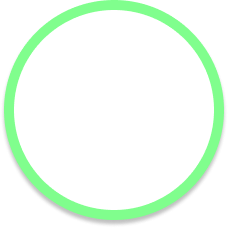
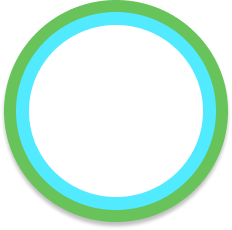
Fixed the player turn signal

diff --git a/Agilt_Projekt_2_Mia_Mia_Med_Putt/Pages/GameBoard.xaml b/Agilt_Projekt_2_Mia_Mia_Med_Putt/Pages/GameBoard.xaml
@@ -48,7 +48,10 @@
             </Image>
             
             <Canvas x:Name="GridCanvas" Width="670" Height="670" Margin="8,5,0,0" HorizontalAlignment="Center" VerticalAlignment="Center">
-
+                <Image Source="/Assets/Board/GreenEllipse.png" Canvas.Left="5" Canvas.Top="428"/>
+                <Image Source="/Assets/Board/RedEllipse.png" Canvas.Left="5" Canvas.Top="8"/>
+                <Image Source="/Assets/Board/YellowEllipse.png" Canvas.Left="428" Canvas.Top="428"/>
+                <Image Source="/Assets/Board/BlueEllipse.png" Canvas.Left="428" Canvas.Top="8"/>
             </Canvas>
 
             <Image x:Name="DicePic" HorizontalAlignment="Center" VerticalAlignment="Center" Width="100" Height="100" Margin="900,350,0,0" RenderTransformOrigin="0.5,0.5" class:ButtonExtensions.ChangeCursorOnHover="True">

diff --git a/Agilt_Projekt_2_Mia_Mia_Med_Putt/Pages/GameBoard.xaml.cs b/Agilt_Projekt_2_Mia_Mia_Med_Putt/Pages/GameBoard.xaml.cs
@@ -99,7 +99,15 @@ namespace Agilt_Projekt_2_Mia_Mia_Med_Putt.Pages
             {
                 if (currentIndex + 1 > playerPawns.Count)
                     currentIndex = 0;
-                return playerPawns[currentIndex];
+
+                foreach(PlayerPawns p in playerPawns)
+                {
+                    p.IsActive = false;
+                }
+
+                PlayerPawns player = playerPawns[currentIndex];
+                player.IsActive = true;
+                return player;
             }
         }
 
@@ -176,7 +184,7 @@ namespace Agilt_Projekt_2_Mia_Mia_Med_Putt.Pages
                     Size size = new Size(SquareWidth, SquareHeight);
                     grid.SetValue(x, y, size);
 
-                    DrawRectangle(x, y, size);
+                    //DrawRectangle(x, y, size);
                 }
             }
         }
@@ -278,50 +286,53 @@ namespace Agilt_Projekt_2_Mia_Mia_Med_Putt.Pages
                 }
             }
 
+            DrawTurnIndicator(currentPlayer);
+        }
 
-            // TBD: Detta ska nog tas bort när vi har popups för vad användaren ska göra
-            foreach (PlayerPawns player in playerPawns)
+        private void DrawTurnIndicator(PlayerPawns player)
+        {
+
+            if (player.IsActive)
             {
-                if (player.IsSelectedPlayer)
+                Image img = new Image();
+                BitmapImage bitmapImage = new BitmapImage();
+
+                Uri uri = new Uri($"ms-appx:///Assets/Board/PurpleEllipse.png");
+                if (player.Color == PawnColor.Green)
                 {
-                    Image img = new Image();
-                    BitmapImage bitmapImage = new BitmapImage();
-
-                    Uri uri = new Uri($"ms-appx:///Assets/Board/ArrowRight.png");
-                    if (player.Color == PawnColor.Green)
-                    {
-                        Canvas.SetTop(img, (9 * squareSide));
-                        Canvas.SetLeft(img, (0 * squareSide));
-                    }
-
-                    if (player.Color == PawnColor.Red)
-                    {
-                        Canvas.SetTop(img, (2 * squareSide));
-                        Canvas.SetLeft(img, (0 * squareSide));
-                    }
-
-                    if (player.Color == PawnColor.Yellow)
-                    {
-                        uri = new Uri($"ms-appx:///Assets/Board/ArrowLeft.png");
-                        Canvas.SetTop(img, (9 * squareSide));
-                        Canvas.SetLeft(img, (10.5 * squareSide));
-                    }
-                    if (player.Color == PawnColor.Blue)
-                    {
-                        uri = new Uri($"ms-appx:///Assets/Board/ArrowLeft.png");
-                        Canvas.SetTop(img, (2 * squareSide));
-                        Canvas.SetLeft(img, (10.5 * squareSide));
-                    }
-
-                    bitmapImage.UriSource = uri;
-                    img.Source = bitmapImage;
-
-                    img.Width = 32;
-                    img.Height = 15;
-
-                    GridCanvas.Children.Add(img);
+                    uri = new Uri($"ms-appx:///Assets/Board/GreenEllipse.png");
+                    Canvas.SetTop(img, 429);
+                    Canvas.SetLeft(img, 5);
                 }
+
+                if (player.Color == PawnColor.Red)
+                {
+                    uri = new Uri($"ms-appx:///Assets/Board/RedEllipse.png");
+                    Canvas.SetTop(img, 8);
+                    Canvas.SetLeft(img, 5);
+                }
+
+                if (player.Color == PawnColor.Yellow)
+                {
+                    uri = new Uri($"ms-appx:///Assets/Board/YellowEllipse.png");
+                    Canvas.SetTop(img, 428);
+                    Canvas.SetLeft(img, 428);
+                }
+
+                if (player.Color == PawnColor.Blue)
+                {
+                    uri = new Uri($"ms-appx:///Assets/Board/BlueEllipse.png");
+                    Canvas.SetTop(img, 8);
+                    Canvas.SetLeft(img, 428);
+                }
+
+                bitmapImage.UriSource = uri;
+                img.Source = bitmapImage;
+
+                GridCanvas.Children.Add(img);
             }
+
+            playerStatusBlock.Text = $"{player.Name} spelares tur";
         }
 
         private void DrawIfPawnExists(Size currentDimensions, Point gridLocation)
@@ -454,7 +465,7 @@ namespace Agilt_Projekt_2_Mia_Mia_Med_Putt.Pages
             Pawn pawn = player.NextPawnInPlay();
 
 
-            playerStatusBlock.Text = $"{player.Name} spelares tur"; //<-- spelare Textblock
+            //playerStatusBlock.Text = $"{player.Name} spelares tur"; //<-- spelare Textblock
             await PlaySoundFile("dice-throw.wav");
             await Task.Delay(1000);
 
@@ -483,7 +494,7 @@ namespace Agilt_Projekt_2_Mia_Mia_Med_Putt.Pages
                 {
                     await GoToNextPosition(pawn, player);
                     await PushPawns(player, pawn);
-                    currentIndex++;
+                    NextPlayer();
                 }
 
                 return;
@@ -505,7 +516,7 @@ namespace Agilt_Projekt_2_Mia_Mia_Med_Putt.Pages
             else if (player.GetPawnsInPlay().Count() == 0)
             {
                 Debug.WriteLine($"{player.Name} har ingen spelare på plan");
-                currentIndex++;
+                NextPlayer();
                 Debug.WriteLine($"Nu är det {currentPlayer.Name} tur att spela");
                 return;
             }
@@ -587,7 +598,14 @@ namespace Agilt_Projekt_2_Mia_Mia_Med_Putt.Pages
 
             await PushPawns(player, pawn);
 
+            NextPlayer();
+        }
+
+        private void NextPlayer()
+        {
             currentIndex++;
+
+            DrawPlayers();
         }
 
         private bool CanPawnPush(PlayerPawns player, Pawn pawn)
@@ -701,18 +719,26 @@ namespace Agilt_Projekt_2_Mia_Mia_Med_Putt.Pages
             Button_Click(sender, e);
         }
 
+        private void RunManualPlayer()
+        {
+            Debug.WriteLine($"Det är {currentPlayer.Name} som ska spela nu");
+        }
+
         private async void Button_Click(object sender, RoutedEventArgs e)
         {
-            while (true)
+            while (!currentPlayer.IsSelectedPlayer)
             {
-
                 DicePic.PointerReleased -= DicePic_PointerReleased;
                 RollButton.IsEnabled = false;
                 await RunAiPlayerAsync(RollDice());
                 RollButton.IsEnabled = true;
                 DicePic.PointerReleased += DicePic_PointerReleased;
+
                 if (playerPawns.All(x => x.PawnCount <= 0)) break;
+
             }
+
+            RunManualPlayer();
 
             // TBD: Här kan ett meddelande till användaren vara en bra ide 
         }
